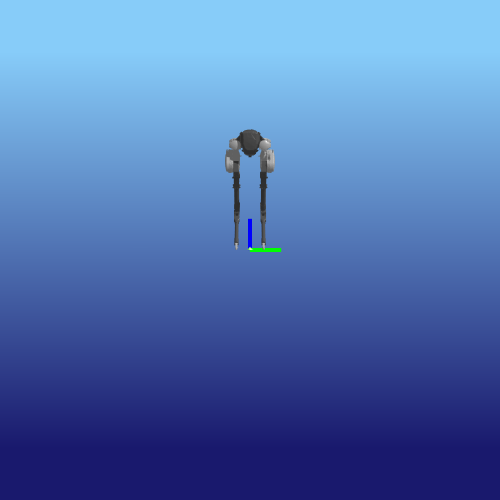
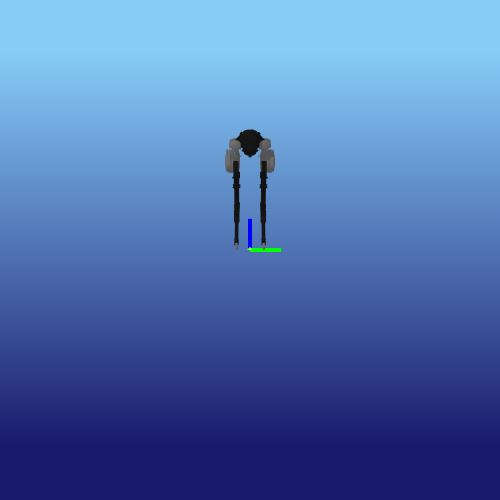
[python/viewer] Add photo realistic rendering of materials if provided. Fix shadow casting area smaller than floor. Fix window name not set properly. Enhanced rendering for NVIDIA gpu.

Changed region(s): [[0.45, 0.24, 0.57, 0.51]]

diff --git a/python/jiminy_py/src/jiminy_py/viewer/panda3d/panda3d_visualizer.py b/python/jiminy_py/src/jiminy_py/viewer/panda3d/panda3d_visualizer.py
@@ -15,14 +15,15 @@ import matplotlib.pyplot as plt
 from matplotlib import font_manager
 from matplotlib.patches import Patch
 
+import simplepbr
 from panda3d.core import (
-    NodePath, Point3, Vec3, Vec4, Mat4, Quat, LQuaternion, Material, Geom,
-    GeomEnums, GeomNode, GeomVertexData, GeomTriangles, GeomVertexArrayFormat,
-    GeomVertexFormat, GeomVertexWriter, CullFaceAttrib, GraphicsWindow,
-    PNMImage, InternalName, OmniBoundingVolume, CompassEffect, BillboardEffect,
-    Filename, TextNode, Texture, TextureStage, PNMImageHeader, PGTop, Camera,
-    PerspectiveLens, TransparencyAttrib, OrthographicLens, ClockObject,
-    GraphicsPipe, WindowProperties, FrameBufferProperties, AntialiasAttrib,
+    NodePath, Point3, Vec3, Mat4, Quat, LQuaternion, Geom, GeomEnums, GeomNode,
+    GeomVertexData, GeomTriangles, GeomVertexArrayFormat, GeomVertexFormat,
+    GeomVertexWriter, CullFaceAttrib, GraphicsWindow, PNMImage, InternalName,
+    OmniBoundingVolume, CompassEffect, BillboardEffect, Filename, TextNode,
+    Texture, TextureStage, PNMImageHeader, PGTop, Camera, PerspectiveLens,
+    TransparencyAttrib, OrthographicLens, ClockObject, Shader, ShaderAttrib,
+    AntialiasAttrib, GraphicsPipe, WindowProperties, FrameBufferProperties,
     CollisionNode, CollisionRay, CollisionTraverser, CollisionHandlerQueue,
     RenderModeAttrib, loadPrcFileData)
 from direct.showbase.ShowBase import ShowBase
@@ -34,7 +35,6 @@ import panda3d_viewer.viewer
 import panda3d_viewer.viewer_app
 import panda3d_viewer.viewer_proxy
 from panda3d_viewer import geometry
-from panda3d_viewer import ViewerConfig as Panda3dViewerConfig
 from panda3d_viewer.viewer_errors import ViewerClosedError
 
 import hppfcl
@@ -51,7 +51,7 @@ LEGEND_SCALE = 0.3
 CLOCK_SCALE = 0.1
 WIDGET_MARGIN_REL = 0.05
 
-PANDA3D_FRAMERATE_MAX = 30
+PANDA3D_FRAMERATE_MAX = 40
 
 
 Tuple3FType = Union[Tuple[float, float, float], np.ndarray]
@@ -158,10 +158,11 @@ def make_gradient_skybox(sky_color: Tuple3FType,
     node.add_geom(geom)
     node.set_bounds(OmniBoundingVolume())
     prism = NodePath(node)
-    prism.set_light_off(1)
     prism.set_bin("background", 0)
     prism.set_depth_write(False)
     prism.set_depth_test(False)
+    prism.set_light_off()
+    prism.set_shader_off()
 
     return prism
 
@@ -239,12 +240,12 @@ def make_heightmap(heightmap: np.ndarray) -> Geom:
     for i in range(dim - 1):
         for j in range(1, dim - 1):
             k = j * dim + i
-            indices[tri_idx] = k + 1, k, k + dim
-            indices[tri_idx + 1] = k, k + 1, k + 1 - dim
+            indices[tri_idx] = k, k + 1, k + dim
+            indices[tri_idx + 1] = k + 1, k, k + 1 - dim
             tri_idx += 2
         k = (dim - 1) * dim + i
-        indices[tri_idx] = i + 1, i, i + dim
-        indices[tri_idx + 1] = k, k + 1, k + 1 - dim
+        indices[tri_idx] = i, i + 1, i + dim
+        indices[tri_idx + 1] = k + 1, k, k + 1 - dim
         tri_idx += 2
     tris_array.unclean_set_num_rows(indices.size)
     memview = memoryview(tris_array)
@@ -258,9 +259,8 @@ def make_heightmap(heightmap: np.ndarray) -> Geom:
 
 
 class Panda3dApp(panda3d_viewer.viewer_app.ViewerApp):
-    def __init__(self, *args: Any, **kwargs: Any) -> None:
+    def __init__(self, config) -> None:
         # Enforce viewer configuration
-        config = Panda3dViewerConfig()
         config.set_window_size(*WINDOW_SIZE_DEFAULT)
         config.set_window_fixed(False)
         config.enable_antialiasing(True, multisamples=2)
@@ -274,7 +274,6 @@ class Panda3dApp(panda3d_viewer.viewer_app.ViewerApp):
                          '\naux-display p3tinydisplay')
         config.set_value('window-type', 'offscreen')
         config.set_value('default-near', 0.1)
-        config.set_value('assimp-optimize-graph', True)
         config.set_value('gl-version', '3 1')
         config.set_value('notify-level', 'error')
         config.set_value('notify-level-x11display', 'fatal')
@@ -289,10 +288,31 @@ class Panda3dApp(panda3d_viewer.viewer_app.ViewerApp):
         # Note that the original constructor is by-passed on purpose.
         ShowBase.__init__(self)
 
-        # Configure rendering
-        self.render.set_shader_auto()
+        # Active enhanced rendering if dedicated NVIDIA GPU is used.
+        # Note that shadow resolution larger than 1024 significatly affects
+        # the frame rate on Intel GPU chipsets: going from 1024 to 2048 makes
+        # it drop from 60FPS to 30FPS.
+        if self.win.gsg.driver_vendor.startswith('NVIDIA'):
+            self._shadow_size = 4096
+        else:
+            self._shadow_size = 1024
+
+        # Make sure we have AA for if/when MSAA is enabled
         self.render.set_antialias(
             AntialiasAttrib.M_auto | AntialiasAttrib.M_faster)
+
+        # Configure the shader
+        shader_options = {
+            'MAX_LIGHTS': 2,
+            'USE_NORMAL_MAP': '',
+            'ENABLE_SHADOWS': '',
+            'USE_OCCLUSION_MAP': ''
+        }
+        pbr_vert = simplepbr._load_shader_str('simplepbr.vert', shader_options)
+        pbr_frag = simplepbr._load_shader_str('simplepbr.frag', shader_options)
+        pbrshader = Shader.make(
+            Shader.SL_GLSL, vertex=pbr_vert, fragment=pbr_frag)
+        self.render.set_attrib(ShaderAttrib.make(pbrshader))
 
         # Define default camera pos
         self._camera_defaults = CAMERA_POS_DEFAULT
@@ -302,23 +322,18 @@ class Panda3dApp(panda3d_viewer.viewer_app.ViewerApp):
         self.clock = ClockObject.get_global_clock()
         self.framerate = None
 
-        # Configure lighting and shadows
-        # Note that shadow resolution larger than 1024 significatly affects
-        # the frame rate on Intel GPU chipsets: going from 1024 to 2048 makes
-        # it drop from 60FPS to 30FPS.
-        self._spotlight = self.config.GetBool('enable-spotlight', False)
-        self._shadow_size = self.config.GetInt('shadow-buffer-size', 1024)
-        self._lights = [self._make_light_ambient((0.5, 0.5, 0.5)),
-                        self._make_light_direct(
-                            1, (0.5, 0.5, 0.5), pos=(8.0, 8.0, 10.0))]
-        self._lights_mask = [True, True]
-        self.enable_lights(True)
-
         # Create default scene objects
         self._fog = self._make_fog()
         self._axes = self._make_axes()
         self._grid = self._make_grid()
         self._floor = self._make_floor()
+
+        # Configure lighting and shadows
+        self._spotlight = self.config.GetBool('enable-spotlight', False)
+        self._lights = [self._make_light_ambient((0.6, 0.6, 0.6)),
+                        self._make_light_direct(
+                            1, (0.7, 0.7, 0.7), pos=(8.0, -8.0, 10.0))]
+        self._lights_mask = [True, True]
 
         # Create scene tree
         self._scene_root = self.render.attach_new_node('scene_root')
@@ -724,13 +739,14 @@ class Panda3dApp(panda3d_viewer.viewer_app.ViewerApp):
                            ) -> NodePath:
         """Patched to fix wrong color alpha.
         """
-        node = super()._make_light_direct(index, color, pos, target)
-        node.get_node(0).set_color((*color, 1.0))
-        return node
+        light_path = super()._make_light_direct(index, color, pos, target)
+        light_path.get_node(0).set_color((*color, 1.0))
+        return light_path
 
     def _make_axes(self) -> NodePath:
         node = super()._make_axes()
         node.set_scale(0.3)
+        node.set_shader_off()
         return node
 
     def _make_floor(self,
@@ -752,13 +768,7 @@ class Panda3dApp(panda3d_viewer.viewer_app.ViewerApp):
                         tile_path.set_color((0.13, 0.13, 0.2, 1.0))
         else:
             model.add_geom(make_heightmap(heightmap))
-            material = Material()
-            material.set_ambient(Vec4(0.95, 0.95, 1.0, 1.0))
-            material.set_diffuse(Vec4(0.95, 0.95, 1.0, 1.0))
-            material.set_specular(Vec3(1.0, 1.0, 1.0))
-            material.set_roughness(0.4)
-            node.set_material(material, 1)
-            # node.set_color((0.95, 0.95, 1.0, 1.0))
+            node.set_color((0.75, 0.75, 0.85, 1.0))
             if show_meshes:
                 render_attrib = node.get_state().get_attrib_def(
                     RenderModeAttrib.get_class_slot())
@@ -769,6 +779,11 @@ class Panda3dApp(panda3d_viewer.viewer_app.ViewerApp):
                     (0.7, 0.7, 0.7, 1.0)  # wireframe_color
                 ))
 
+        # simplepbr shader must be by-passed to avoid having to specify a
+        # material instead of a color.
+        node.set_shader_auto(True)
+
+        # simplepbr shader is not working properly with two_sided nodes
         node.set_two_sided(True)
 
         return node
@@ -786,8 +801,17 @@ class Panda3dApp(panda3d_viewer.viewer_app.ViewerApp):
                           renders a flat tile ground if not specified.
                           Optional: None by default.
         """
+        # Remove existing floor and create a new one
         self._floor.remove_node()
         self._floor = self._make_floor(heightmap, show_meshes)
+
+        # Adjust frustum of the lights to project shadow over the whole scene
+        for light_path in self._lights[1:]:
+            bmin, bmax = self._floor.get_tight_bounds(light_path)
+            lens = light_path.get_node(0).get_lens()
+            lens.set_film_offset((bmin.xz + bmax.xz) * 0.5)
+            lens.set_film_size(bmax.xz - bmin.xz)
+            lens.set_near_far(bmin.y, bmax.y)
 
     def append_group(self,
                      root_path: str,
@@ -915,7 +939,7 @@ class Panda3dApp(panda3d_viewer.viewer_app.ViewerApp):
         :param frame: Local frame position and quaternion.
                       Optional: ((0., 0., 0.), (0., 0., 0., 0.)) by default.
         :param no_cache: Use cache to load a model.
-                        Optional: may depend on the mesh file.
+                         Optional: may depend on the mesh file.
         """
         mesh = self.loader.loadModel(mesh_path, noCache=no_cache)
         if mesh_path.lower().endswith('.dae'):

diff --git a/python/jiminy_py/setup.py b/python/jiminy_py/setup.py
@@ -126,6 +126,8 @@ setup(
         # 1.10.9 adds support of Nvidia EGL rendering without X11 server.
         # Panda3d is NOT supported by PyPy and cannot be built from source.
         "panda3d_viewer",
+        # Photo-realistic shader for Panda3d to improve rendering of meshes.
+        "panda3d_simplepbr",
         # Used internally by Viewer to record video programmatically when
         # Meshcat is not used as rendering backend.
         # Cross-platform precompiled binary wheels are provided since 8.0.0.
